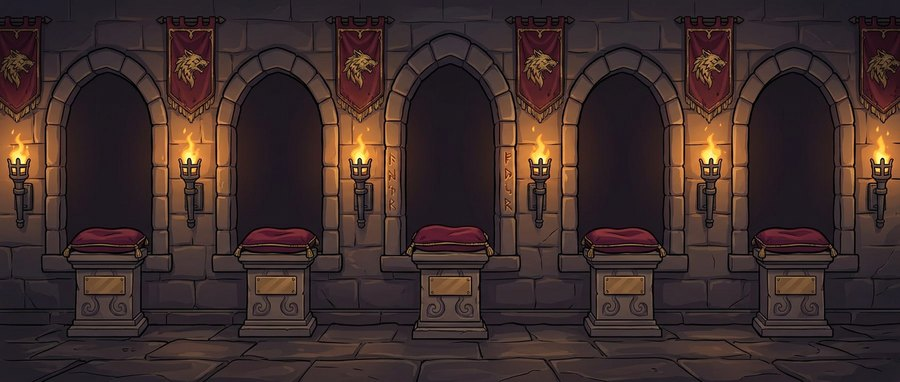
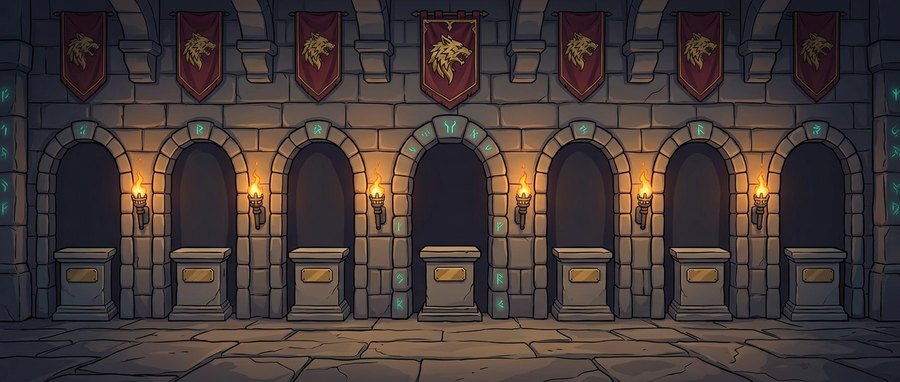
Зала реліквій: 7 однакових постаментів без подушок, реліквії клану стають по черзі від середини (27.11, Влад «А», «7») — game v294, i18n v216, ui2 v111
- кожна реліквія — з нової активності; перша — артефакт Циклопа (по одному 5 найкращим кланам гонки)
- силуетів більше немає: порожні постаменти чекають нових реліквій
- новий банер assets/clan/zala.jpg (v2)

Claude-Session: https://claude.ai/code/session_01SEci16BNu63yGQHhzmmu9d

diff --git a/src/i18n.js b/src/i18n.js
@@ -598,6 +598,6 @@ Object.assign(window.I18N.uk.t,{zh_cash_ok:'💵 Ти в грошовому ре
 Object.assign(window.I18N.ru.t,{zh_cash_ok:'💵 Ты в денежном рейтинге: дивизион — по уровню {l} (на начало недели или в день, когда достиг 30). Приз — на баланс в игре; вывести — с 30 уровня после 7 дней активности, потратить в магазине — сразу.',zh_cash_no:'💵 Деньги — для игроков от 30 уровня. Достигнешь 30 посреди недели — сразу попадёшь в дивизион со всеми очками недели (твинки не участвуют). Пороги и Пепел за места — для всех.',zh_div_hint:'Игроки от 30 уровня делятся на 3 почти равные части по уровню героя на начало недели (кто достиг 30 посреди недели — по уровню в день достижения). Каждому дивизиону — ≈ {s} на топ-10, если бы неделя закончилась сейчас. Твинки и забаненные мест не занимают; деньги — на баланс в игре после итогов недели.'});
 Object.assign(window.I18N.en.t,{zh_cash_ok:'💵 You are in the cash ranking: your division is set by your level {l} (at the start of the week or on the day you reached 30). Prizes go to your in-game balance; withdraw from level 30 after 7 active days, or spend in the shop right away.',zh_cash_no:'💵 Cash is for players of level 30+. Reach 30 mid-week and you join a division right away with all of this week’s points (twin accounts don’t take part). Milestones and Ash for places are for everyone.',zh_div_hint:'Players of level 30+ are split into 3 nearly equal parts by hero level at the start of the week (those who reach 30 mid-week — by level on that day). Each division gets ≈ {s} for its top 10, if the week ended now. Twins and banned players take no places; the money goes to your in-game balance after the week is settled.'});
 // 27.11 (Влад «А»): клан — 5 вкладок (⚔ Битви = Гонка + Циклоп) і 🏛 Зала реліквій у Замку; артефакти Циклопа для 5 найкращих кланів гонки
-Object.assign(window.I18N.uk.t,{csub_fight:'⚔ Битви',zala_t:'Зала реліквій',zala_h:'Тут зберігатимуться реліквії клану. Перші — артефакти Циклопа: голова, шолом, обладунок, булава й камінь. За підсумками етапу Циклопа їх отримають 5 найкращих кланів гонки.',zala_have:'Реліквій у клану: {n} — торкнись, щоб побачити назву.',zala_got:'у вашій Залі',zala_wait:'ще не здобуто',rel_head:'Голова Циклопа',rel_helm:'Шолом Циклопа',rel_armor:'Обладунок Циклопа',rel_club:'Булава Циклопа',rel_stone:'Камінь Циклопа'});
-Object.assign(window.I18N.ru.t,{csub_fight:'⚔ Битвы',zala_t:'Зал реликвий',zala_h:'Здесь будут храниться реликвии клана. Первые — артефакты Циклопа: голова, шлем, доспех, булава и камень. По итогам этапа Циклопа их получат 5 лучших кланов гонки.',zala_have:'Реликвий у клана: {n} — нажми, чтобы увидеть название.',zala_got:'в вашем Зале',zala_wait:'ещё не получено',rel_head:'Голова Циклопа',rel_helm:'Шлем Циклопа',rel_armor:'Доспех Циклопа',rel_club:'Булава Циклопа',rel_stone:'Камень Циклопа'});
-Object.assign(window.I18N.en.t,{csub_fight:'⚔ Battles',zala_t:'Hall of Relics',zala_h:'Your clan’s relics will be kept here. The first are the Cyclops artifacts: the head, helmet, armour, club and stone. When the Cyclops stage ends, the 5 best clans of the clan race will receive them.',zala_have:'Relics in your clan: {n} — tap one to see its name.',zala_got:'in your Hall',zala_wait:'not won yet',rel_head:'Cyclops’ Head',rel_helm:'Cyclops’ Helmet',rel_armor:'Cyclops’ Armour',rel_club:'Cyclops’ Club',rel_stone:'Cyclops’ Stone'});
+Object.assign(window.I18N.uk.t,{csub_fight:'⚔ Битви',zala_t:'Зала реліквій',zala_h:'Тут зберігатимуться реліквії клану — кожна з нової активності. Перша — артефакт Циклопа: за підсумками етапу Циклопа 5 найкращих кланів гонки отримають по одному — голову, шолом, обладунок, булаву чи камінь.',zala_have:'Реліквій у клану: {n} — торкнись, щоб побачити назву.',zala_got:'у вашій Залі',rel_head:'Голова Циклопа',rel_helm:'Шолом Циклопа',rel_armor:'Обладунок Циклопа',rel_club:'Булава Циклопа',rel_stone:'Камінь Циклопа'});
+Object.assign(window.I18N.ru.t,{csub_fight:'⚔ Битвы',zala_t:'Зал реликвий',zala_h:'Здесь будут храниться реликвии клана — каждая из новой активности. Первая — артефакт Циклопа: по итогам этапа Циклопа 5 лучших кланов гонки получат по одному — голову, шлем, доспех, булаву или камень.',zala_have:'Реликвий у клана: {n} — нажми, чтобы увидеть название.',zala_got:'в вашем Зале',rel_head:'Голова Циклопа',rel_helm:'Шлем Циклопа',rel_armor:'Доспех Циклопа',rel_club:'Булава Циклопа',rel_stone:'Камень Циклопа'});
+Object.assign(window.I18N.en.t,{csub_fight:'⚔ Battles',zala_t:'Hall of Relics',zala_h:'Your clan’s relics will be kept here — each from a new activity. The first is a Cyclops artifact: when the Cyclops stage ends, the 5 best clans of the clan race each get one — the head, helmet, armour, club or stone.',zala_have:'Relics in your clan: {n} — tap one to see its name.',zala_got:'in your Hall',rel_head:'Cyclops’ Head',rel_helm:'Cyclops’ Helmet',rel_armor:'Cyclops’ Armour',rel_club:'Cyclops’ Club',rel_stone:'Cyclops’ Stone'});

diff --git a/src/game.js b/src/game.js
@@ -1423,10 +1423,10 @@ function adminHtml(){
 }
 // ---------- клан ----------
 let clanAt=0,clogF='all';let csub='castle',clanData=null,clanBusy=false,craftT=1,kbT=0,clanModeSel=null,resK='m0',cfLast='',clogOpen=false,chFrom=''; // 27.11 (Влад «А»): 5 вкладок клану — Замок (із Залою реліквій) першою; cfLast — остання з «Битв» (race / cyc)
-// 27.11 (Влад): Зала реліквій — артефакти Циклопа для 5 найкращих кланів гонки; зліва направо на постаментах банера, голова — посередині
-const RELK=['club','helm','head','armor','stone'],RELX=[12,30.9,49.9,69.1,88],RELY=[61.3,61.2,60.4,61.2,61.3];
-function zalaH(C){const R0=C.clan&&C.clan.relics,have=new Set((Array.isArray(R0)?R0:[]).map(r=>r&&r.k).filter(k=>RELK.includes(k))); // формат від сервера: [{k:'head',…}]; інше ігноруємо, щоб не впав екран клану
- return `<div class="card zala"><h4>🏛 ${T('zala_t')}</h4><div class="zala-v"><img class="zala-bg" src="assets/clan/zala.jpg?v=1" alt="" decoding="async">${RELK.map((k,i)=>`<img class="zrel${have.has(k)?' on':''}" data-zr="${k}" style="left:${RELX[i]}%;top:${(RELY[i]-32.5).toFixed(1)}%" src="assets/relic/${k}.webp?v=1" alt="${esc(T('rel_'+k))}" decoding="async">`).join('')}</div><p class="hint zala-h">${have.size?T('zala_have',{n:have.size})+' ':''}${T('zala_h')}</p></div>`}
+// 27.11 (Влад «А», «7»): Зала реліквій — 7 однакових постаментів; реліквії клану стають по черзі від середини (кожна — з нової активності, перша — артефакт Циклопа для топ-5 гонки)
+const RELK=['head','helm','armor','club','stone'],RELX=[9.6,22.2,35.2,49.9,65,78,90.9],RELY=[65.5,65.5,65.3,64.9,65.5,65.3,65.5],RELS=[3,2,4,1,5,0,6];
+function zalaH(C){const R0=C.clan&&C.clan.relics,R=(Array.isArray(R0)?R0:[]).map(r=>r&&r.k).filter((k,i,a)=>RELK.includes(k)&&a.indexOf(k)===i).slice(0,7); // формат від сервера: [{k:'head',…}] у порядку здобуття; інше ігноруємо, щоб не впав екран клану
+ return `<div class="card zala"><h4>🏛 ${T('zala_t')}</h4><div class="zala-v"><img class="zala-bg" src="assets/clan/zala.jpg?v=2" alt="" decoding="async">${R.map((k,i)=>{const s=RELS[i];return `<img class="zrel" data-zr="${k}" style="left:${RELX[s]}%;top:${(RELY[s]-26.3).toFixed(1)}%" src="assets/relic/${k}.webp?v=1" alt="${esc(T('rel_'+k))}" decoding="async">`}).join('')}</div><p class="hint zala-h">${R.length?T('zala_have',{n:R.length})+' ':''}${T('zala_h')}</p></div>`}
 function fightIn(){return csub==='race'||csub==='cyc'}
 function fightGo(){return (cfLast==='cyc'&&V&&V.cyc)?'cyc':'race'} // критик 27.11: за замовчуванням Гонка — Циклоп опитує сервер раз на 8 с, тож лише тим, хто сам його відкрив
 const roleT=r=>T('role_'+r);
@@ -1699,7 +1699,7 @@ function renderClan(){
  el.querySelectorAll('[data-cta]').forEach(b=>b.onclick=()=>clanAct('clanTake',{t:+b.dataset.cta,all:1}));
  {const rf=$('crRf');if(rf)rf.onclick=()=>{if(crBusy)return;if(Date.now()-crAt<3e4){toast(T('cr_wait30'));return}haptic('light');crGo=1;dirty.clan=1;flush()}} // 24.11: оновити «🏁 Гонку» — не частіше 30 с (сервер усе одно кешує 30 с)
  el.querySelectorAll('[data-cfs]').forEach(b=>b.onclick=()=>{const k=b.dataset.cfs;if(k===csub)return;haptic('light');csub=cfLast=k;if(k==='race'&&Date.now()-crAt>3e4)crGo=1;dirty.clan=1;window.scrollTo(0,0);showPane()}); // 27.11: перемикач усередині «Битв»
- el.querySelectorAll('[data-zr]').forEach(b=>b.onclick=()=>{const k=b.dataset.zr,R=((C.clan&&C.clan.relics)||[]).find(r=>r.k===k);haptic('light');toast(T('rel_'+k)+' — '+T(R?'zala_got':'zala_wait'))}); // 27.11: тап по реліквії — назва й стан
+ el.querySelectorAll('[data-zr]').forEach(b=>b.onclick=()=>{haptic('light');toast(T('rel_'+b.dataset.zr)+' — '+T('zala_got'))}); // 27.11: тап по реліквії — назва
  {const d=$('cLogD');if(d)d.ontoggle=()=>{clogOpen=d.open}} // 27.11: журнал лишається розгорнутим після автооновлення клану
  el.querySelectorAll('[data-cyo]').forEach(b=>b.onclick=()=>cycDo('cycOpen',{d:+b.dataset.cyo}));
  el.querySelectorAll('[data-cyj]').forEach(b=>b.onclick=()=>cycDo('cycJoin',{id:+b.dataset.cyj}));

diff --git a/src/ui2.css b/src/ui2.css
@@ -964,12 +964,11 @@ h4 .hic.ico{width:24px;height:24px;vertical-align:-6px}
 .tkc.done{opacity:.6}.tkc.done .tkc-t{font-weight:600}
 h4.tkc-h{margin:14px 2px 6px}
 @media (max-width:380px){.subtabs button{padding:8px 6px 7px;font-size:11.5px}}
-/* 27.11 (Влад «А»): клан — 5 вкладок; Зала реліквій у Замку (артефакти на постаментах банера, не здобуті — силуети), перемикач «Битв», журнал згорнутим блоком */
+/* 27.11 (Влад «А»): клан — 5 вкладок; Зала реліквій у Замку (7 постаментів, реліквії клану стають по черзі від середини), перемикач «Битв», журнал згорнутим блоком */
 .zala .zala-v{position:relative;border-radius:10px;overflow:hidden;margin-top:6px;aspect-ratio:900/382;background:#1a1418}
 .zala .zala-bg{display:block;width:100%;height:100%;object-fit:cover}
-.zala .zrel{position:absolute;width:15%;height:auto;transform:translateX(-50%);cursor:pointer;-webkit-tap-highlight-color:transparent;transition:transform .2s}
-.zala .zrel:not(.on){filter:grayscale(1) brightness(.4) contrast(.85) drop-shadow(0 0 2px #f0d6a0bb);opacity:.7}
-.zala .zrel.on{filter:drop-shadow(0 0 6px #ffcf7a99) drop-shadow(0 3px 3px #000)}
+.zala .zrel{position:absolute;width:11.5%;height:auto;transform:translateX(-50%);cursor:pointer;-webkit-tap-highlight-color:transparent;transition:transform .2s}
+.zala .zrel{filter:drop-shadow(0 0 6px #ffcf7a99) drop-shadow(0 3px 3px #000)}
 .zala .zrel:active{transform:translateX(-50%) scale(1.08)}
 .zala .zala-h{margin:8px 0 0}
 .cfch{margin:0 0 8px}

diff --git a/index.html b/index.html
@@ -205,7 +205,7 @@ body[data-scene=clan] .scene{background-image:radial-gradient(ellipse at center,
 .petinc{display:flex;align-items:center;gap:10px;margin:6px 0 10px}.petinc>div{flex:1}.egg{font-size:22px}.egg.r{filter:hue-rotate(200deg) saturate(2) drop-shadow(0 0 4px #7aa8ff)}
 .petgrid{display:grid;grid-template-columns:repeat(3,1fr);gap:6px}.petc{display:flex;flex-direction:column;align-items:center;gap:2px;padding:8px 4px;border-radius:10px;background:var(--panel2);border:1px solid var(--line);color:var(--text);font-size:12px;text-align:center}.petc.act{border-color:var(--acc);background:#2c1d1f}.petc.no{opacity:.45}.petc small{color:var(--mut);font-size:10px}
 </style>
-<link rel="stylesheet" href="src/ui2.css?v=110">
+<link rel="stylesheet" href="src/ui2.css?v=111">
 </head>
 <body>
 <!-- заставка -->
@@ -555,10 +555,10 @@ body[data-scene=clan] .scene{background-image:radial-gradient(ellipse at center,
 <div class="modal" id="modal"><div class="mbox" id="mbox"></div></div>
 <div class="toast" id="toast"></div>
 
-<script src="src/i18n.js?v=215"></script>
+<script src="src/i18n.js?v=216"></script>
 <script src="src/gear.js?v=5"></script>
 <script src="src/pen.js?v=4"></script>
 <script src="src/cycfx.js?v=1"></script>
-<script src="src/game.js?v=293"></script>
+<script src="src/game.js?v=294"></script>
 </body>
 </html>
